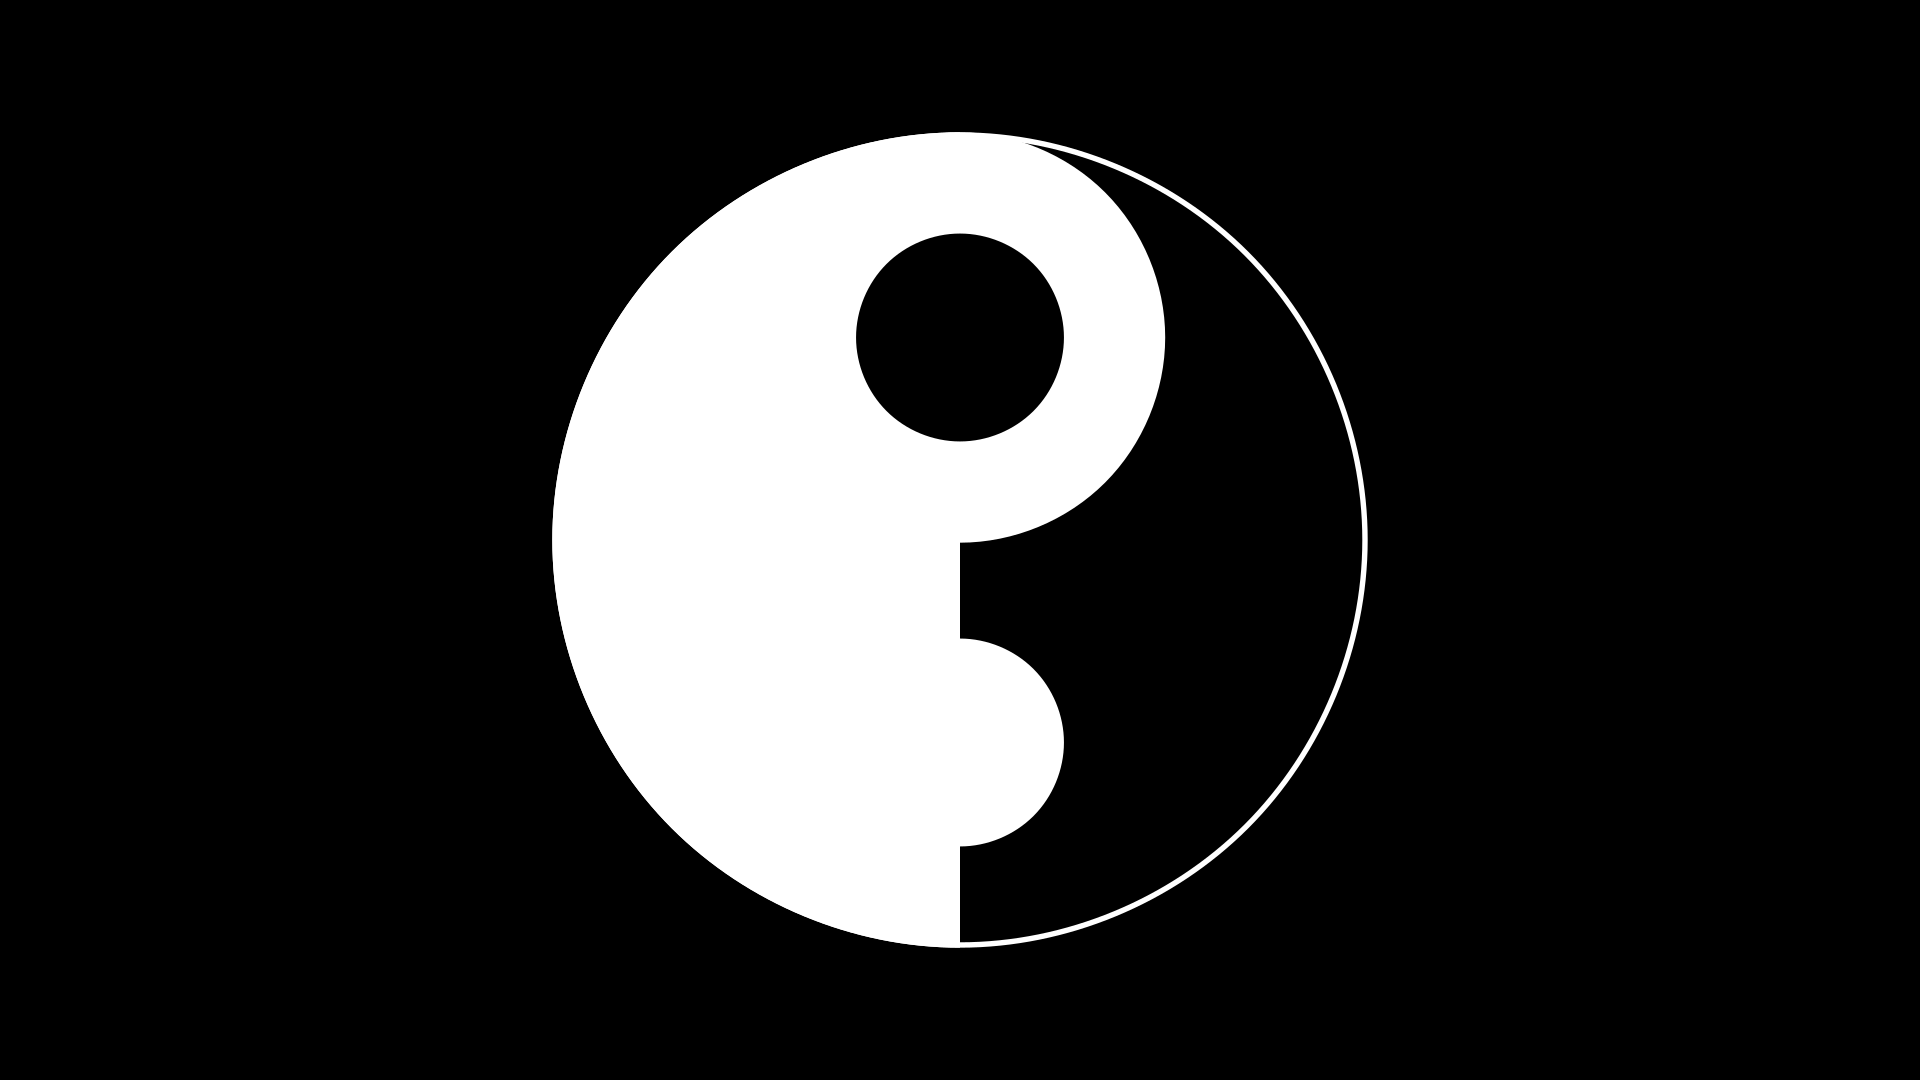
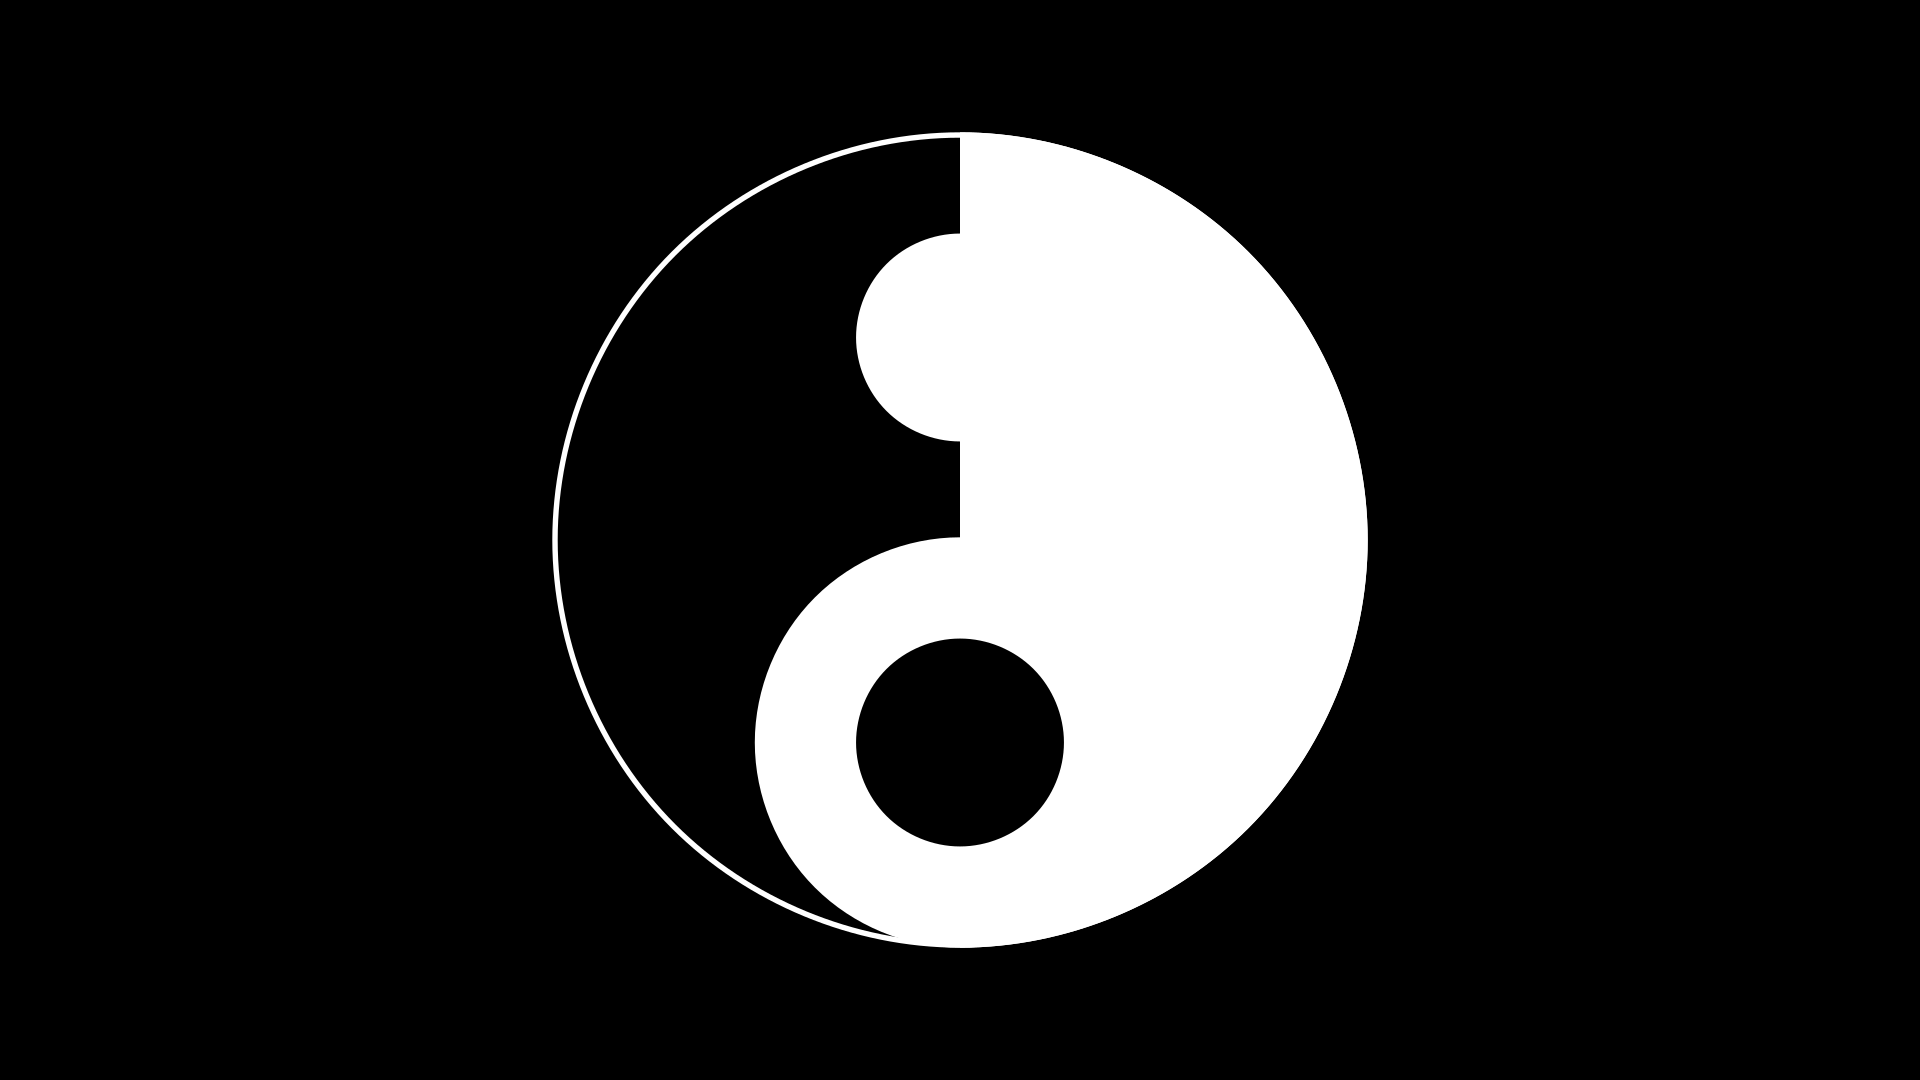
rotate yinyan right

Changed region(s): [[0.2812, 0.1222, 0.7188, 0.8861], [0.5312, 0.1222, 0.5625, 0.1528], [0.4375, 0.8556, 0.4688, 0.8861]]

diff --git a/Exercises/Ex_05.py b/Exercises/Ex_05.py
@@ -22,20 +22,20 @@ class ex_05(Scene):
         fill = {"fill_opacity": 1}
 
         w_circle = Circle(color=WHITE).set(height=6)
-        w_circle.rotate(PI / 2)
+        w_circle.rotate(-PI / 2)
 
         semi_circle = VMobject(**fill).set_points(
             w_circle.points[:int(len(w_circle.points) / 2)]
         )
 
         sw_circle = Circle(color=BLACK, **fill).set(height=1.5)
-        sw_circle.shift(1.5 * UP)
+        sw_circle.shift(1.5 * DOWN)
         
         sb_circle = Circle(color=WHITE, **fill).set(height=1.5)
-        sb_circle.shift(1.5 * DOWN)
+        sb_circle.shift(1.5 * UP)
         
         u_circle = Circle(color=WHITE, **fill).set(height=3)
-        u_circle.shift(1.5 * UP)
+        u_circle.shift(1.5 * DOWN)
 
         # Add elements in the correct order
         self.add(w_circle, semi_circle, u_circle, sb_circle, sw_circle)
